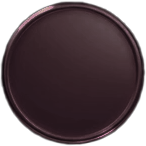
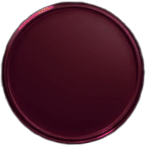
store + wallet bg.

diff --git a/src/pages/public/Store/Store.module.css b/src/pages/public/Store/Store.module.css
@@ -1,7 +1,7 @@
 .pageContainer {
   width: 100vw;
   height: 100vh;
-  background-image: url(/assets/img/bg/base.png);
+  background-image: url(/public/assets/img/landing-page/bg.png);
   background-size: 100% 100%;
   background-position: center;
   background-repeat: no-repeat;

diff --git a/src/pages/public/Wallet/Wallet.module.css b/src/pages/public/Wallet/Wallet.module.css
@@ -1,7 +1,7 @@
 .pageContainer {
   width: 100vw;
   height: 100vh;
-  background-image: url(/assets/img/bg/base.png);
+  background-image: url(/public/assets/img/landing-page/bg.png);
   background-size: 100% 100%;
   background-position: center;
   background-repeat: no-repeat;
